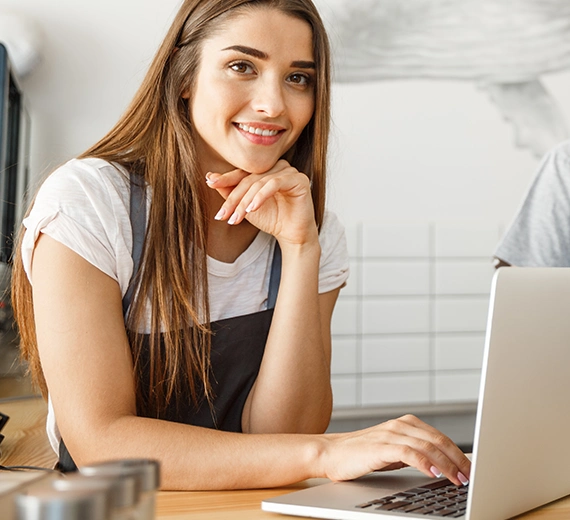
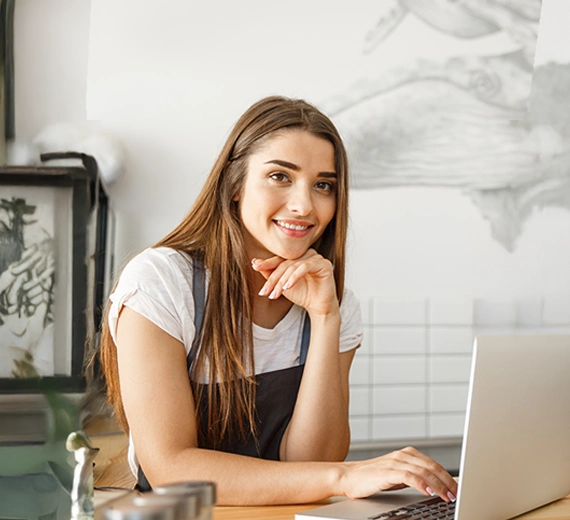
fixing photo annd header m-dropdown

diff --git a/src/app/_components/home/SiteHeader.tsx b/src/app/_components/home/SiteHeader.tsx
@@ -1,128 +1,217 @@
 "use client"
 import Link from "next/link"
 import Image from "next/image"
-import { useState } from "react"
-
-const HEADER_PAGES_LINKS = [
-  { href: "/design", label: "עיצוב ומיתוג " },
-  { href: "/develop", label: "פיתוח אתרים בסביבת AI" },
-  { href: "/develop-ai", label: "פיתוח תוכנה בסבית AI" },
-  { href: "/marketing", label: "שיווק דיגיטלי" },
-] as const
+import { useState, useRef, useEffect } from "react"
 
 const HEADER_DEV_DROPDOWN = [
   { href: "/develop", label: "פיתוח אתרים בסביבת AI" },
   { href: "/develop-ai", label: "פיתוח תוכנה בסביבת AI" },
 ] as const
 
+// קטגוריות לתפריט נפתח במובייל — מבוסס על הפוטר, חוץ מ"חשוב לדעת"
+const MOBILE_MENU_SECTIONS = [
+  {
+    title: "שירותים של VOW",
+    items: [
+      { href: "/design", label: "עיצוב ומיתוג" },
+      { href: "/develop", label: "פיתוח אתרים מבוסס AI" },
+      { href: "/develop-ai", label: "פיתוח תוכנה מבוסס AI" },
+      { href: "/pricing", label: "מחירים" },
+      { href: "/marketing", label: "שיווק דיגיטלי" },
+      { href: "/contact", label: "יצירת קשר" },
+    ],
+  },
+  {
+    title: "מוצרים של VOW",
+    items: [
+      { href: "/account-ai", label: "רואה חשבון AI" },
+      { href: "/invoice", label: "חשבונית דיגיטלית מאובטחת" },
+    ],
+  },
+] as const
+
 export function SiteHeader() {
   const [menuOpen, setMenuOpen] = useState(false)
+  const headerRef = useRef<HTMLElement>(null)
+  const [headerHeight, setHeaderHeight] = useState(72)
+
+  useEffect(() => {
+    const measure = () => {
+      if (headerRef.current) {
+        setHeaderHeight(headerRef.current.offsetHeight)
+      }
+    }
+    measure()
+    window.addEventListener("resize", measure)
+    return () => window.removeEventListener("resize", measure)
+  }, [])
+
+  useEffect(() => {
+    if (menuOpen) {
+      document.body.style.overflow = "hidden"
+    } else {
+      document.body.style.overflow = ""
+    }
+    return () => { document.body.style.overflow = "" }
+  }, [menuOpen])
 
   return (
-    <header role="banner" className="relative z-50 bg-[#F4F1EC]">
-      <a href="#main" className="skip-link">
-        דלג לתוכן
-      </a>
-      <div className="mx-auto max-w-[1440px] px-2 sm:px-6 lg:px-4">
-        <nav
-          role="navigation"
-          aria-label="ניווט ראשי"
-          className="flex flex-row-reverse items-center justify-between gap-3 py-4 lg:py-6"
-        >
-          {/* Logo */}
-          <Link
-            href="/"
-            className="flex items-center lg:gap-2 focus-visible:outline-none focus-visible:ring-2 focus-visible:ring-[var(--vow-accent)] rounded-md"
-            aria-label="VOW — חזרה לעמוד הבית"
+    <>
+      {/* Header קבוע */}
+      <header
+        ref={headerRef}
+        role="banner"
+        className="fixed top-0 left-0 right-0 z-50 bg-[#F4F1EC]"
+      >
+        <a href="#main" className="skip-link">
+          דלג לתוכן
+        </a>
+        <div className="mx-auto max-w-[1440px] px-2 sm:px-6 lg:px-4">
+          <nav
+            role="navigation"
+            aria-label="ניווט ראשי"
+            className="flex flex-row-reverse items-center justify-between gap-3 py-4 lg:py-6"
           >
-            <Image
-              src="/logo.svg"
-              alt="VOW Logo"
-              width={150}
-              height={46}
-              priority
-              className="h-auto w-[149px]"
-            />
-          </Link>
+            {/* Logo */}
+            <Link
+              href="/"
+              className="flex items-center lg:gap-2 focus-visible:outline-none focus-visible:ring-2 focus-visible:ring-[var(--vow-accent)] rounded-md"
+              aria-label="VOW — חזרה לעמוד הבית"
+            >
+              <Image
+                src="/logo.svg"
+                alt="VOW Logo"
+                width={150}
+                height={46}
+                priority
+                className="h-auto w-[149px]"
+              />
+            </Link>
 
-          {/* Navigation */}
-          <ul className="flex flex-nowrap items-center gap-1">
-            {/* המבורגר — רק במובייל, בצד ימין */}
-            <li className="sm:hidden flex items-center">
-              <button
-                type="button"
-                aria-label={menuOpen ? "סגור תפריט" : "פתח תפריט"}
-                aria-expanded={menuOpen}
-                onClick={() => setMenuOpen((v) => !v)}
-                className="flex h-8 w-10 items-center justify-center rounded-md transition-colors hover:bg-black/5 focus-visible:outline-none focus-visible:ring-2 focus-visible:ring-[var(--vow-accent)]"
-              >
-                {menuOpen ? (
-                  <svg width="22" height="22" viewBox="0 0 22 22" fill="none" aria-hidden="true">
-                    <line x1="2" y1="2" x2="20" y2="20" stroke="black" strokeWidth="2.2" strokeLinecap="round" />
-                    <line x1="20" y1="2" x2="2" y2="20" stroke="black" strokeWidth="2.2" strokeLinecap="round" />
+            <ul className="flex flex-nowrap items-center gap-1">
+              {/* המבורגר — מובייל בלבד */}
+              <li className="sm:hidden flex items-center">
+                <button
+                  type="button"
+                  aria-label={menuOpen ? "סגור תפריט" : "פתח תפריט"}
+                  aria-expanded={menuOpen}
+                  onClick={() => setMenuOpen((v) => !v)}
+                  className="flex h-8 w-10 items-center justify-center rounded-md transition-colors hover:bg-black/5 focus-visible:outline-none focus-visible:ring-2 focus-visible:ring-[var(--vow-accent)]"
+                >
+                  {menuOpen ? (
+                    <svg width="22" height="22" viewBox="0 0 22 22" fill="none" aria-hidden="true">
+                      <line x1="2" y1="2" x2="20" y2="20" stroke="black" strokeWidth="2.2" strokeLinecap="round" />
+                      <line x1="20" y1="2" x2="2" y2="20" stroke="black" strokeWidth="2.2" strokeLinecap="round" />
+                    </svg>
+                  ) : (
+                    <svg width="22" height="22" viewBox="0 0 22 22" fill="none" aria-hidden="true">
+                      <line x1="2" y1="5" x2="20" y2="5" stroke="black" strokeWidth="2.2" strokeLinecap="round" />
+                      <line x1="2" y1="11" x2="20" y2="11" stroke="black" strokeWidth="2.2" strokeLinecap="round" />
+                      <line x1="2" y1="17" x2="20" y2="17" stroke="black" strokeWidth="2.2" strokeLinecap="round" />
+                    </svg>
+                  )}
+                </button>
+              </li>
+
+              {/* כפתורים — דסקטופ בלבד */}
+              <div className="hidden sm:flex flex-row items-center gap-2 bg-white/90 backdrop-blur-sm shadow-[0_1px_6px_rgba(0,0,0,0.06)] border border-gray-100 rounded-2xl px-3 py-2">
+                <li
+                  className="flex items-center w-[125px] justify-end text-right"
+                  style={{ fontSize: "16px", lineHeight: "20px" }}
+                >
+                  חשבונית דיגיטלית שנה חינם
+                </li>
+                <div className="flex items-center gap-2">
+                  <li className="flex items-center">
+                    <a href="https://app.vow.co.il" className="vow-btn-primary !h-[44px] !sm:h-[50px]">
+                      הצטרפות
+                    </a>
+                  </li>
+                  <li className="flex items-center">
+                    <a href="https://app.vow.co.il/login" className="vow-btn-secondary !h-[44px] !sm:h-[50px]">
+                      התחברות
+                    </a>
+                  </li>
+                </div>
+              </div>
+
+              {/* קישורים — דסקטופ */}
+              <li className="hidden md:flex md:items-center">
+                <Link
+                  href="/design"
+                  className="link-standard text-[18px] leading-normal px-3 py-2 hover:text-[#5389BB] transition-colors no-underline hover:underline"
+                >
+                  עיצוב ומיתוג
+                </Link>
+              </li>
+
+              {/* פיתוח AI — דרופדאון */}
+              <li className="hidden md:flex md:items-center relative group">
+                <button
+                  type="button"
+                  className="link-standard text-[18px] leading-normal px-3 py-2 hover:text-[#5389BB] transition-colors no-underline hover:underline inline-flex items-center gap-1"
+                  aria-haspopup="menu"
+                >
+                  פיתוח AI
+                  <svg width="14" height="14" viewBox="0 0 20 20" fill="none" aria-hidden="true" className="mt-[2px]">
+                    <path d="M5 7.5L10 12.5L15 7.5" stroke="currentColor" strokeWidth="2" strokeLinecap="round" strokeLinejoin="round" />
                   </svg>
-                ) : (
-                  <svg width="22" height="22" viewBox="0 0 22 22" fill="none" aria-hidden="true">
-                    <line x1="2" y1="5" x2="20" y2="5" stroke="black" strokeWidth="2.2" strokeLinecap="round" />
-                    <line x1="2" y1="11" x2="20" y2="11" stroke="black" strokeWidth="2.2" strokeLinecap="round" />
-                    <line x1="2" y1="17" x2="20" y2="17" stroke="black" strokeWidth="2.2" strokeLinecap="round" />
-                  </svg>
-                )}
-              </button>
-            </li>
-            {/* כפתורים — תמיד מוצגים */}
-            <div className="flex flex-col sm:flex-row items-center gap-0 sm:gap-2 bg-white/90 backdrop-blur-sm shadow-[0_1px_6px_rgba(0,0,0,0.06)] border border-gray-100 rounded-2xl px-3 py-2">
-            <li 
-    className="flex items-center w-full sm:w-[125px] justify-center sm:justify-end sm:text-right whitespace-nowrap sm:whitespace-normal" 
-    style={{ fontSize: '16px', lineHeight: '20px' }}
-  >
-    חשבונית דיגיטלית שנה חינם
-  </li>
-  <div className="flex items-center gap-2">
-    <li className="flex items-center ">
-    <a href="https://app.vow.co.il" className="vow-btn-primary !h-[44px] !sm:h-[50px]">
-    הצטרפות
-      </a>
-    </li>
-    <li className="flex items-center">
-    <a href="https://app.vow.co.il/login" className="vow-btn-secondary !h-[44px] !sm:h-[50px]">
-    התחברות
-      </a>
-    </li>
-  </div>
-</div>
-            {/* קישורים — מוצגים בדסקטופ (כדי לא להעמיס על מובייל) */}
-            {/* עיצוב — לינק רגיל */}
-            <li className="hidden md:flex md:items-center">
-              <Link
-                href="/design"
-                className="link-standard text-[18px] leading-normal px-3 py-2 hover:text-[#5389BB] transition-colors no-underline hover:underline"
-              >
-                עיצוב ומיתוג{" "}
-              </Link>
-            </li>
+                </button>
+                <div className="pointer-events-none absolute right-0 top-full z-50 mt-0 w-[220px] rounded-xl border border-black/10 bg-white shadow-lg opacity-0 translate-y-1 transition-all duration-150 group-hover:pointer-events-auto group-hover:opacity-100 group-hover:translate-y-0 group-focus-within:pointer-events-auto group-focus-within:opacity-100 group-focus-within:translate-y-0">
+                  <ul role="menu" className="py-2 text-right">
+                    {HEADER_DEV_DROPDOWN.map((item) => (
+                      <li key={item.href} role="none">
+                        <Link
+                          role="menuitem"
+                          href={item.href}
+                          className="block px-4 py-2 text-[16px] font-semibold text-black hover:bg-black/5 focus-visible:outline-none focus-visible:ring-2 focus-visible:ring-[var(--vow-accent)] rounded-md mx-2"
+                        >
+                          {item.label}
+                        </Link>
+                      </li>
+                    ))}
+                  </ul>
+                </div>
+              </li>
 
-            {/* פיתוח AI — דרופדאון (דסקטופ בלבד) */}
-            <li className="hidden md:flex md:items-center relative group">
-              <button
-                type="button"
-                className="link-standard text-[18px] leading-normal px-3 py-2 hover:text-[#5389BB] transition-colors no-underline hover:underline inline-flex items-center gap-1"
-                aria-haspopup="menu"
-              >
-                פיתוח AI
-                <svg width="14" height="14" viewBox="0 0 20 20" fill="none" aria-hidden="true" className="mt-[2px]">
-                  <path d="M5 7.5L10 12.5L15 7.5" stroke="currentColor" strokeWidth="2" strokeLinecap="round" strokeLinejoin="round" />
-                </svg>
-              </button>
+              <li className="hidden md:flex md:items-center">
+                <Link
+                  href="/contact"
+                  className="link-standard text-[18px] leading-normal px-3 py-2 hover:text-[#5389BB] transition-colors no-underline hover:underline"
+                >
+                  יצירת קשר
+                </Link>
+              </li>
+            </ul>
+          </nav>
+        </div>
+      </header>
 
-              <div className="pointer-events-none absolute right-0 top-full z-50 mt-0 w-[220px] rounded-xl border border-black/10 bg-white shadow-lg opacity-0 translate-y-1 transition-all duration-150 group-hover:pointer-events-auto group-hover:opacity-100 group-hover:translate-y-0 group-focus-within:pointer-events-auto group-focus-within:opacity-100 group-focus-within:translate-y-0">
-                <ul role="menu" className="py-2 text-right">
-                  {HEADER_DEV_DROPDOWN.map((item) => (
-                    <li key={item.href} role="none">
+      {/* Spacer */}
+      <div style={{ height: headerHeight }} aria-hidden="true" />
+
+      {/* תפריט נפתח מובייל */}
+      {menuOpen && (
+        <div
+          dir="rtl"
+          className="sm:hidden fixed left-0 right-0 bottom-0 z-40 bg-white flex flex-col"
+          style={{ top: headerHeight }}
+        >
+          {/* קישורים עם כותרות קטגוריה */}
+          <div className="flex flex-col flex-1 overflow-y-auto px-6 py-6 gap-8">
+            {MOBILE_MENU_SECTIONS.map((section) => (
+              <div key={section.title}>
+                {/* כותרת קטגוריה — כמו בפוטר */}
+                <p className="text-[14px] font-semibold text-[#A1A1A1] mb-3 tracking-wide">
+                  {section.title}
+                </p>
+                <ul className="flex flex-col">
+                  {section.items.map((item) => (
+                    <li key={item.href}>
                       <Link
-                        role="menuitem"
                         href={item.href}
-                        className="block px-4 py-2 text-[16px] font-semibold text-black hover:bg-black/5 focus-visible:outline-none focus-visible:ring-2 focus-visible:ring-[var(--vow-accent)] rounded-md mx-2"
+                        onClick={() => setMenuOpen(false)}
+                        className="block text-[19px] font-normal leading-normal py-[10px] text-black hover:text-[#5389BB] transition-colors no-underline"
                       >
                         {item.label}
                       </Link>
@@ -130,50 +219,27 @@ export function SiteHeader() {
                   ))}
                 </ul>
               </div>
-            </li>
-            <li className="hidden md:flex md:items-center">
-              <Link
-                href="/contact"
-                className="link-standard text-[18px] leading-normal px-3 py-2 hover:text-[#5389BB] transition-colors no-underline hover:underline"
-              >
-                יצירת קשר
-              </Link>
-            </li>
-
-
-
-
-           
-          </ul>
-        </nav>
-
-        {/* Dropdown overlay — מובייל בלבד */}
-        {menuOpen && (
-          <div
-            dir="rtl"
-            className="sm:hidden absolute right-0 left-0 top-full z-50 bg-white shadow-lg border-t border-[var(--vow-border)] px-6 py-6 flex flex-col gap-4"
-          >
-            {HEADER_PAGES_LINKS.map((item) => (
-              <Link
-                key={item.href}
-                href={item.href}
-                onClick={() => setMenuOpen(false)}
-                className="link-standard text-[20px] leading-normal py-2 hover:text-[#5389BB] transition-colors"
-              >
-                {item.label}
-              </Link>
             ))}
-            <Link
-              href="/contact"
-              onClick={() => setMenuOpen(false)}
-              className="link-standard text-[20px] leading-normal py-2 hover:text-[#5389BB] transition-colors"
-            >
-              יצירת קשר
-            </Link>
-            
           </div>
-        )}
-      </div>
-    </header>
+
+          {/* כפתורים — נצמדים לתחתית */}
+          <div className="px-4 py-4 bg-white border-t border-gray-100 shadow-[0_-2px_12px_rgba(0,0,0,0.08)]">
+            <div className="flex flex-row-reverse items-center justify-between gap-2 bg-white/90 backdrop-blur-sm shadow-[0_1px_6px_rgba(0,0,0,0.06)] border border-gray-100 rounded-2xl px-3 py-2">
+              <div className="flex items-center gap-2">
+                <a href="https://app.vow.co.il" className="vow-btn-primary !h-[50px]">
+                  הצטרפות
+                </a>
+                <a href="https://app.vow.co.il/login" className="vow-btn-secondary !h-[50px]">
+                  התחברות
+                </a>
+              </div>
+              <span className="text-right" style={{ fontSize: "18px", lineHeight: "18px" }}>
+                חשבונית דיגיטלית שנה חינם
+              </span>
+            </div>
+          </div>
+        </div>
+      )}
+    </>
   )
 }
